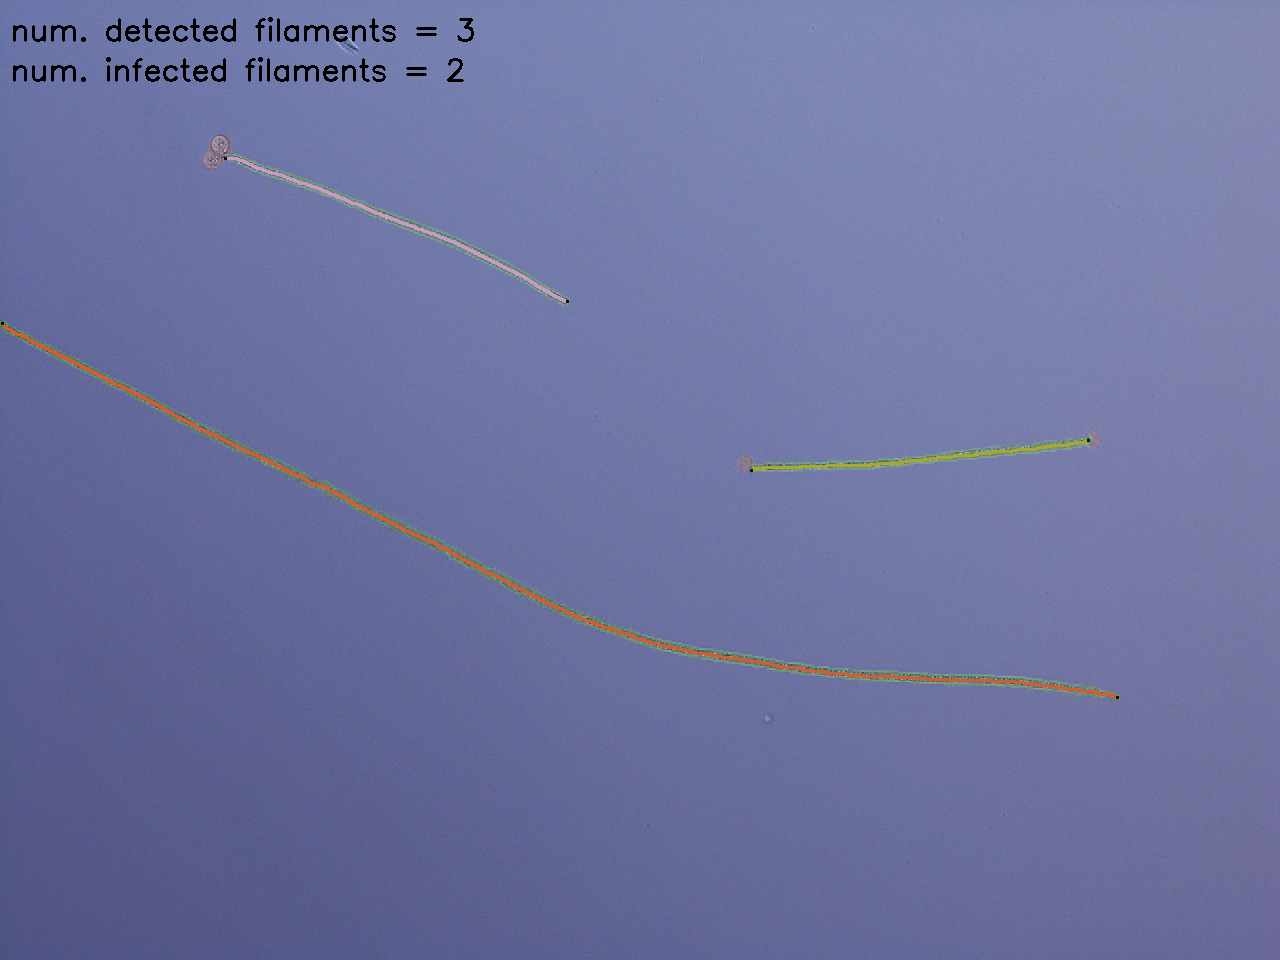
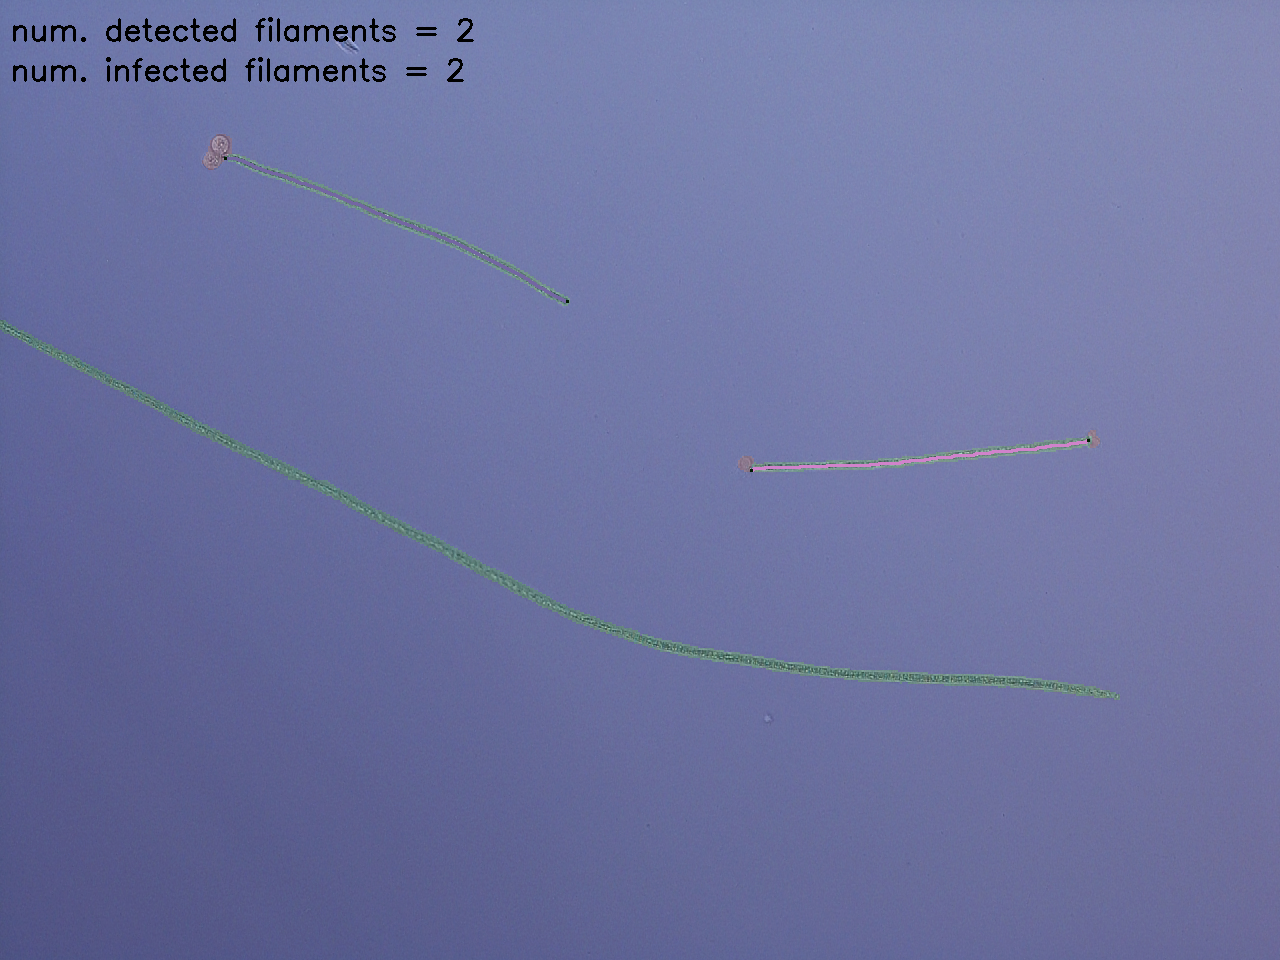
config file, single file input, filter border

diff --git a/quantification/quantification.py b/quantification/quantification.py
@@ -13,7 +13,7 @@ import networkx as nx
 
 import matplotlib.pyplot as plt
 
-def quantify(img, pred):
+def quantify(img, pred, para):
     """
     args:
         pred: colored image prediction
@@ -26,9 +26,11 @@ def quantify(img, pred):
     bin_filament = pred[:,:,1] // 255
 
     #closing binary filament
-    kernel = cv2.getStructuringElement(cv2.MORPH_ELLIPSE,(5,5))
+    closingDist = int(para['closingDist'])
+    kernel = cv2.getStructuringElement(cv2.MORPH_ELLIPSE,(closingDist,closingDist))
     bin_filament = cv2.morphologyEx(bin_filament, cv2.MORPH_CLOSE, kernel)
 
+    img_h, img_w, = bin_filament.shape
     #find connected components
     conn_comp = cv2.connectedComponentsWithStats(bin_filament , cv2.CV_32S, connectivity=8)
 
@@ -40,19 +42,30 @@ def quantify(img, pred):
     for idx in range(1,conn_comp[0]):
         #create subimage of CC
         x, y, width, height, _ = conn_comp[2][idx]
+
+        #filter bordering filaments
+        minBorder = int(para['minBorder'])
+        if (x < minBorder) or (y < minBorder) or \
+            (y+height > img_h - minBorder) or (x + width > img_w - minBorder):
+            continue
+
         sub_img = img[y:y+height, x:x+width]
         sub_bin_filament = conn_comp[1][y:y+height, x:x+width]
 
         #find pixel in CC
         conn_comp_pxl = np.where(sub_bin_filament == idx)
         my_cnnCmp = ConnCompAnalysis(conn_comp_pxl, conn_comp[2][idx])
+        #set class hyperparameter
+        my_cnnCmp.max_dist = int(para['maxDist'])
+        my_cnnCmp.max_angle = int(para['maxAngle'])
+        my_cnnCmp.max_mean_dev = float(para['maxMeanDev'])
 
         if not my_cnnCmp.checkConnCompSize():
             continue
         
         my_cnnCmp.createGraph()
         my_cnnCmp.pruneGraph()
-        my_cnnCmp.createHyperNodes()
+        my_cnnCmp.createHyperNodes(alphaHyper = int(para['alphaHyper']))
 
         my_cnnCmp.resolveEvenHyperNodes()
         my_cnnCmp.resolveOddNodes()
@@ -61,7 +74,10 @@ def quantify(img, pred):
 
         if (my_cnnCmp.checkResolvedGraph()):
             #count total number of filaments
-            newFila, newInf = my_cnnCmp.quantifyParameter(bin_infection)
+            newFila, newInf = my_cnnCmp.quantifyParameter(bin_infection, 
+                                                            area = int(para['area']),
+                                                            thres = int(para['thres']), 
+                                                            minLen = int(para['minLen']))
             num_filaments += newFila
             num_infected_filaments += newInf
         

diff --git a/cnn_main.py b/cnn_main.py
@@ -16,6 +16,7 @@ import cv2
 import glob
 import os
 import argparse
+import configparser
 
 from tqdm import tqdm
 
@@ -25,7 +26,9 @@ from quantification.quantification import quantify
 
 #define input parameters
 parser = argparse.ArgumentParser(description='CNN based analysis')
-parser.add_argument('--inPath', required=True, help='input folder')
+group = parser.add_mutually_exclusive_group(required=True)
+group.add_argument('--inPath', help='input folder')
+group.add_argument('--inFile', help='input file')
 parser.add_argument('--predPath', required=True, help='output folder prediction')
 parser.add_argument('--outPath', required=True, help='output folder analysis')
 args = parser.parse_args()
@@ -34,11 +37,16 @@ args = parser.parse_args()
 model = model_from_checkpoint_path("cnn_detection/model/vgg_unet_cross_aug_ep130/vgg_unet_cross")
 
 #load input images from input folder
-img_name_arr = [os.path.basename(x) for x in glob.glob(args.inPath+'/*')]
+if (args.inFile == None):
+    img_name_arr = [os.path.basename(x) for x in glob.glob(args.inPath+'/*')]
+    inPath = args.inPath
+else:
+    img_name_arr = [os.path.basename(args.inFile)]
+    inPath = os.path.dirname(args.inFile)
 
 for img_name in img_name_arr:
     print('Read image: ' + img_name)
-    img = cv2.imread(args.inPath+'/'+img_name)
+    img = cv2.imread(inPath+'/'+img_name)
 
     print('Create segmentation map: ' + img_name)
     pred = predictTiled(img,model)
@@ -47,7 +55,12 @@ for img_name in img_name_arr:
     cv2.imwrite(args.predPath+'/'+os.path.splitext(img_name)[0] + '.png', pred)
 
     print('Quantify prevalence: ' + img_name)
-    num_filaments, num_infected_filaments = quantify(img,pred)
+    #read quantification config file
+    config = configparser.ConfigParser()
+    config.read('quantification/config.ini')
+    para = config['hyperparameter']
+
+    num_filaments, num_infected_filaments = quantify(img, pred, para)
 
     #create overlay
     overlay = cv2.addWeighted(pred, 0.1,img, 0.9,0,dtype = cv2.CV_32F)

diff --git a/quantification/connCompAnalysis.py b/quantification/connCompAnalysis.py
@@ -207,7 +207,8 @@ class ConnCompAnalysis():
     def visualizeGraph(self, img, bold = True):
         """
         Args:
-            img: rgb image 
+            img: rgb image
+            bold: analysed filaments are marked with bold line (True/False) 
         Returns:
             rbg image with colored graph
         """
